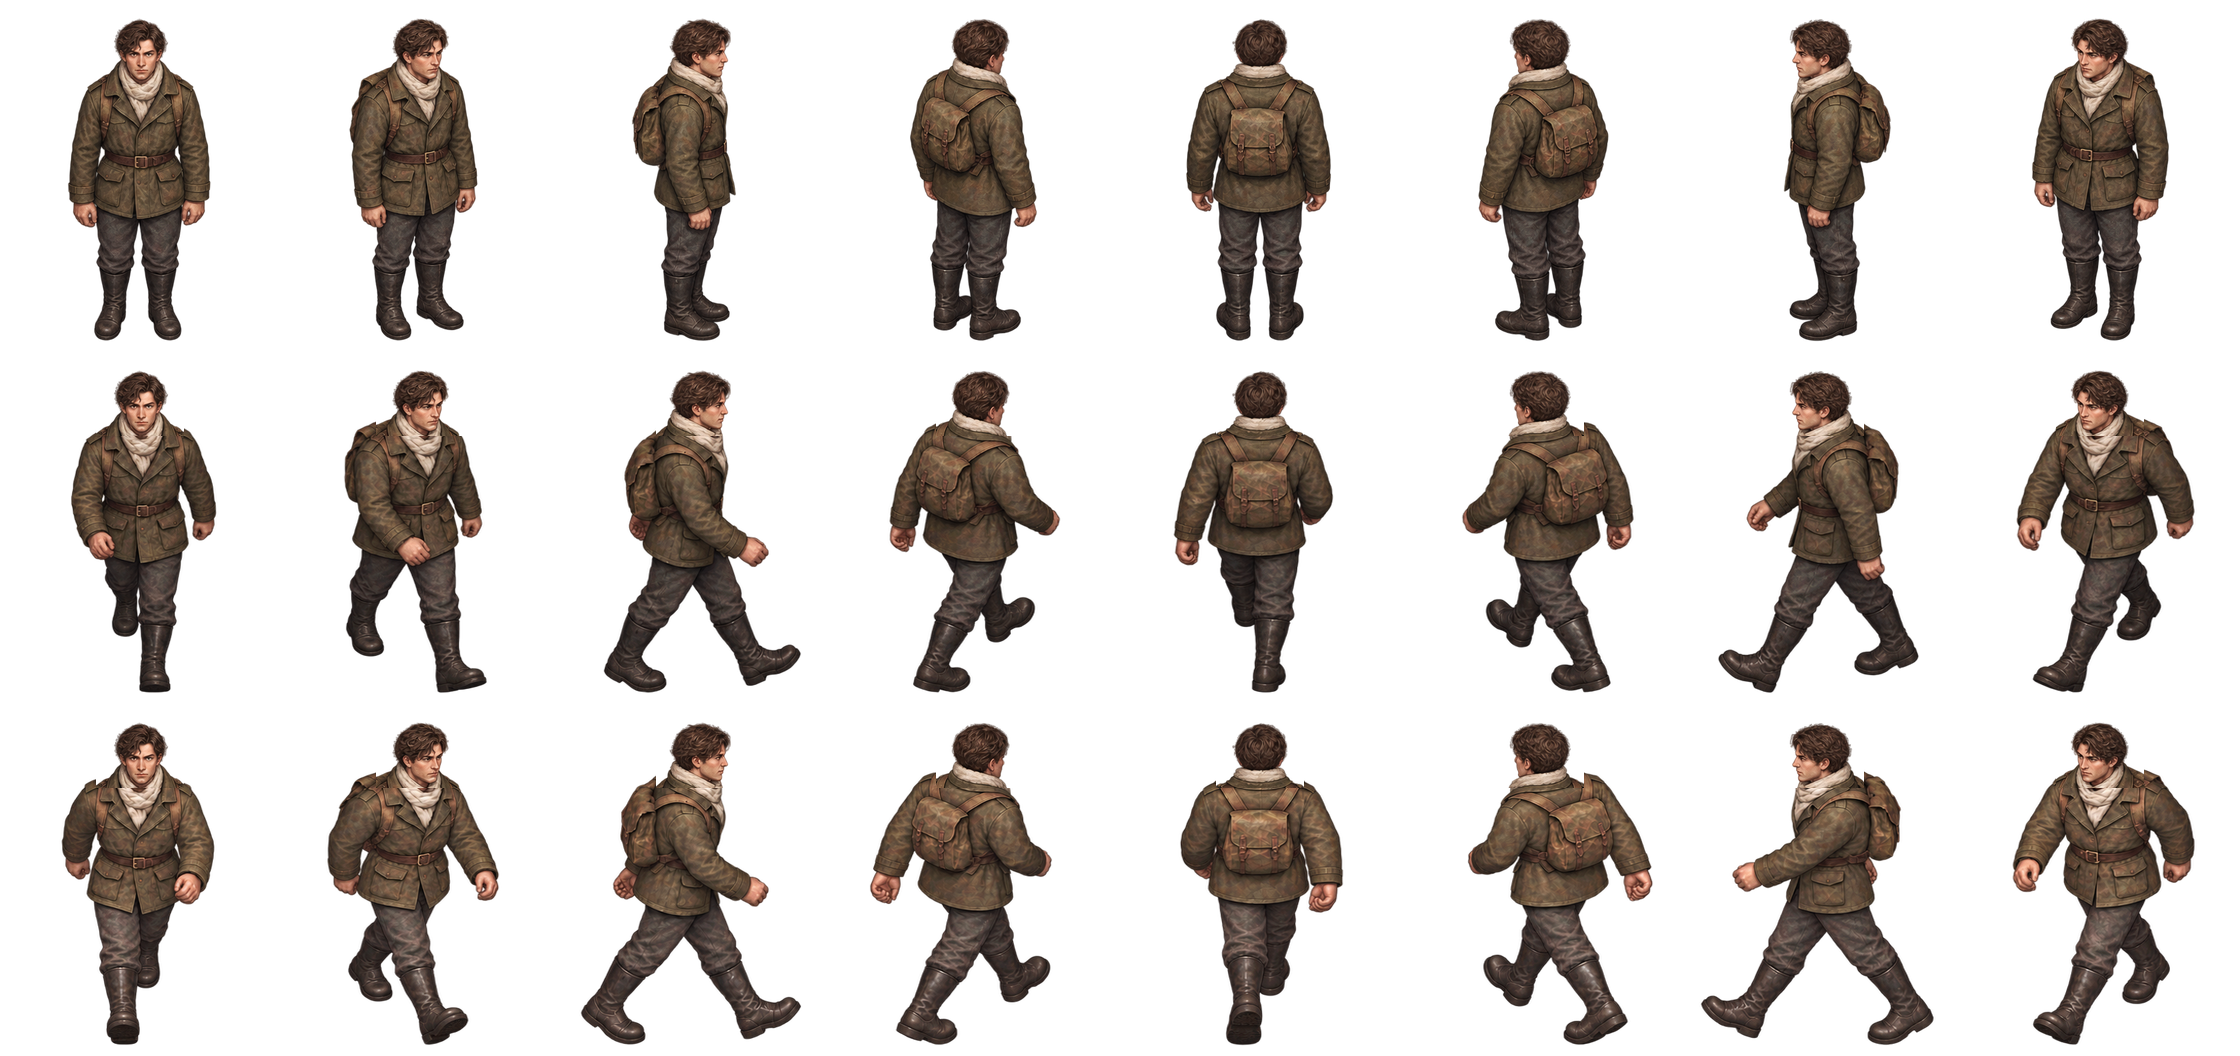
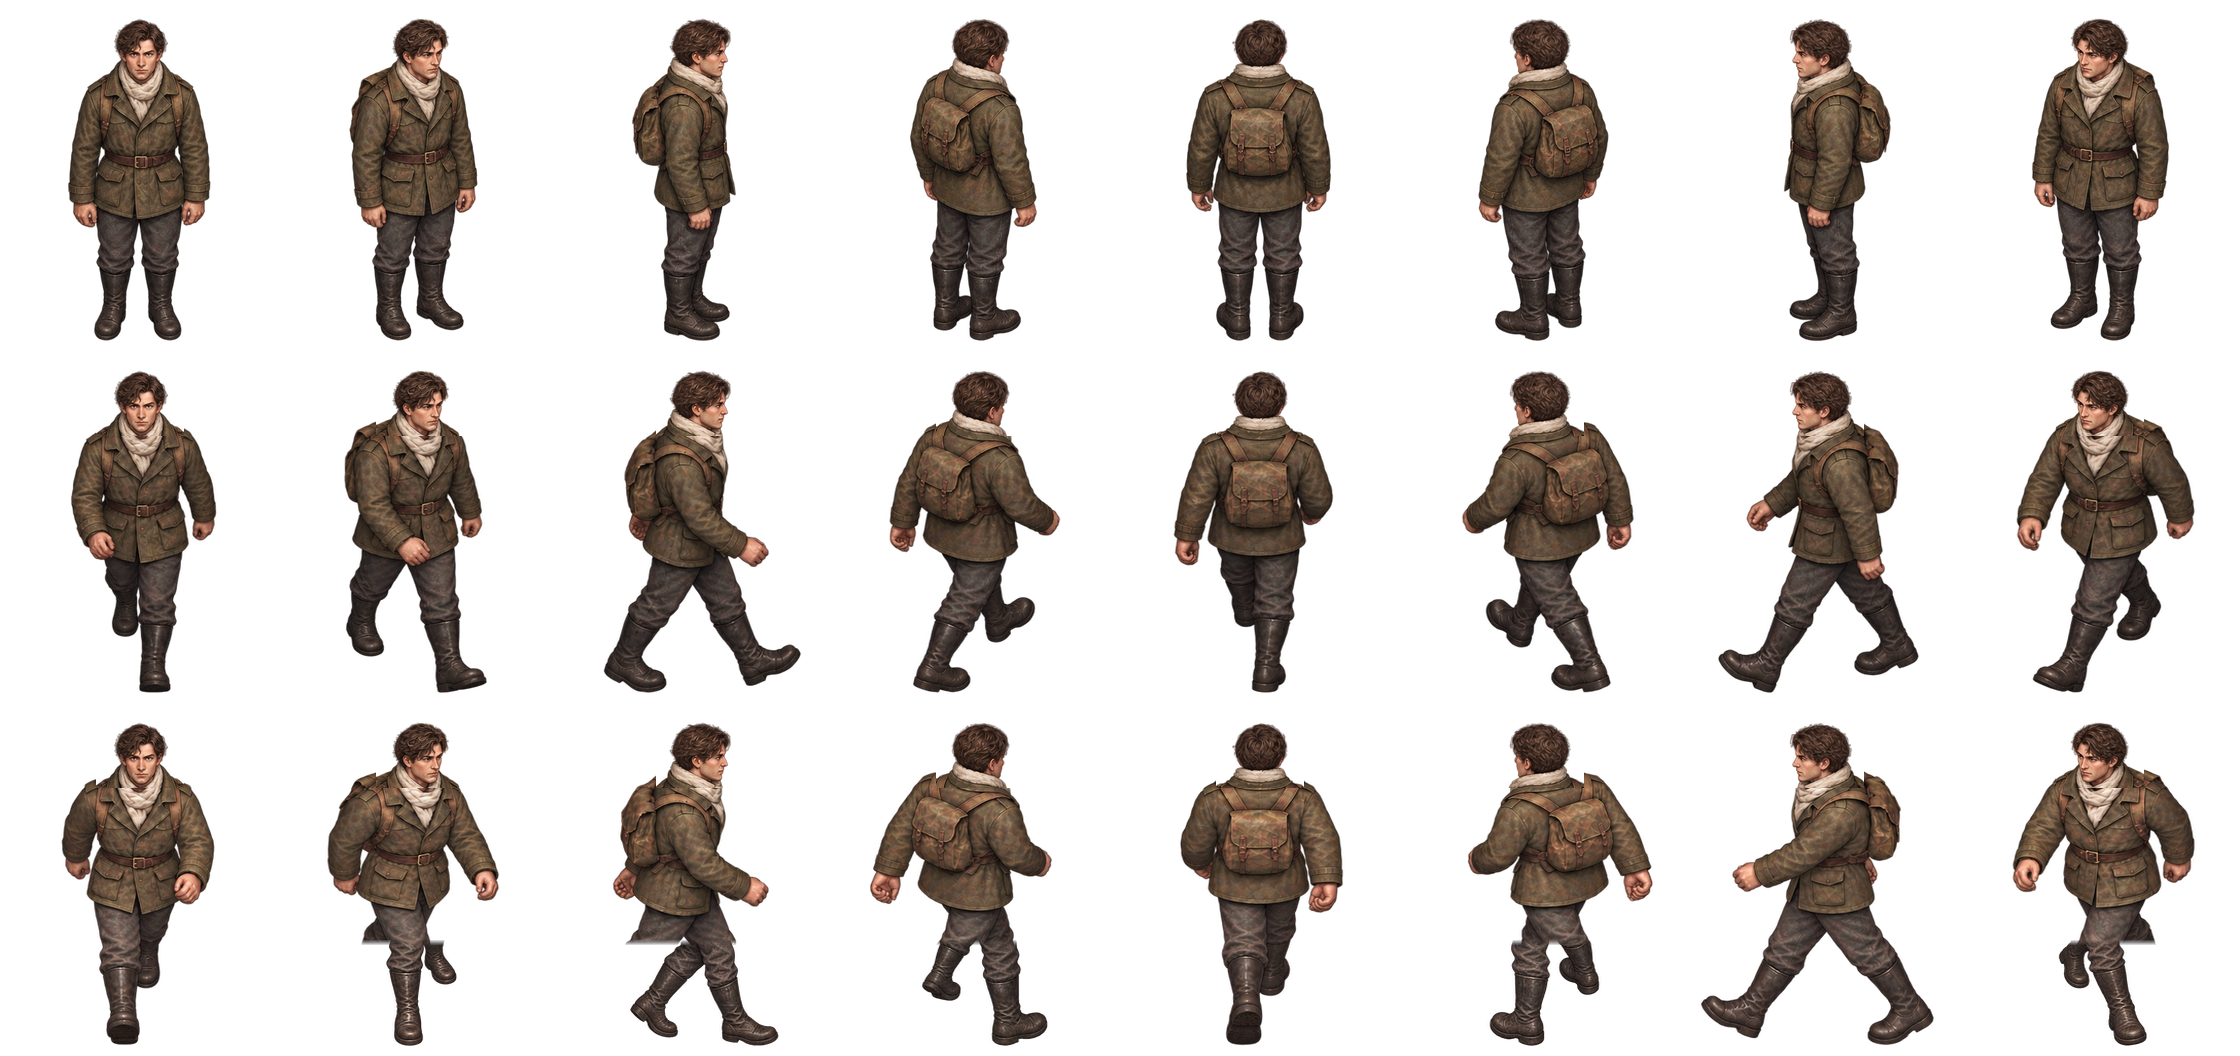
Correct opposite-foot strides in five Ivan directions across outfits

diff --git a/tools/pack_motion_v18.py b/tools/pack_motion_v18.py
@@ -66,6 +66,18 @@ def pack(sources,report_path):
    cell,ratio=registered(im,i%4,i//4,4,2,idle[i]);art[n].append(cell);report['registration'][n].append(round(ratio,4))
  left=[head_lock(art['walk_left'][i],idle[i]) for i in range(8)]
  right=[head_lock(art['walk_right'][i],idle[i]) for i in range(8)]
+ # Optional individually redrawn opposite strides; leave every other view intact.
+ corrections=sources/'opposite-strides.json'
+ if corrections.exists():
+  for key,name in json.loads(corrections.read_text()).items():
+   angle=int(key)
+   if angle not in [1,2,3,5,7]:raise ValueError('Only the five reviewed faulty views may be replaced')
+   src=sources/name
+   frame,ratio=registered(Image.open(src).convert('RGBA'),0,0,1,1,idle[angle])
+   right[angle]=upper_lower(right[angle],frame)
+   # Keep existing head, torso, hands and equipment pixel-identical. Only
+   # the newly painted legs below the shared outfit seam are replaced.
+   report.setdefault('opposite_stride_redraw',{})[key]={'file':name,'sha256':hashlib.sha256(src.read_bytes()).hexdigest(),'width_registration':round(ratio,4)}
  body=[idle,left,right]
  masked=[[masked_head(row[i],art['masked'][i]) for i in range(8)] for row in body]
  ready=[head_lock(art['armed'][i],idle[i]) for i in range(8)]
@@ -87,6 +99,7 @@ def pack(sources,report_path):
   atlas.save(ROOT/'assets/characters'/f'{actor}.png',optimize=True)
   clips=['idle','walk_left','walk_right'] if len(rows)==3 else ['ready','shot','reload','walk_left','walk_right','reload_walk_left','reload_walk_right']
   manifest[actor]={'file':actor+'.png','directions':8,'source_angles':8,'poses':len(rows),'cell':[width,H],'baseline':342,'body_pixels':324,'clips':clips,'packing_revision':18,'reference_commit':'057fff3','exposure':[[1.0]*8 for _ in rows],'frame_mirror':[[False]*8 for _ in rows]}
+  if corrections.exists():manifest[actor]['opposite_stride_angles']=[1,2,3,5,7]
   report[actor]={'head_identical_during_walk':all(np.array_equal(np.asarray(rows[p][i])[:80,102:178],np.asarray(rows[0][i])[:80,102:178]) for p in ([1,2] if len(rows)==3 else [3,4]) for i in range(8)),'waist_widths':[[round(core_width(c),1) for c in row] for row in rows]}
  path.write_text(json.dumps(manifest,ensure_ascii=False,indent=2)+'\n')
  for actor,row in [('ivan',idle),('ivan_masked',masked[0])]:

diff --git a/README.md b/README.md
@@ -1,6 +1,6 @@
 # 地铁1982 · D-6
 
-Godot 4.6.3 的等距 2.5D 叙事探索游戏。当前为 **v18.1：伊万八方向重绘、居民步态与收音机体验优化**。保留原有核心玩法与手绘风格，包含 D-6 两层、水处理厂、莫斯科公社、谢契、煤运设施与星城。
+Godot 4.6.3 的等距 2.5D 叙事探索游戏。当前为 **v18.2：修正伊万五个方向的重复迈腿姿态**。保留原有核心玩法与手绘风格，包含 D-6 两层、水处理厂、莫斯科公社、谢契、煤运设施与星城。
 
 七张地图的公共区域各有一台桌面收音机，七首完整歌曲分为“夜班来信”“旧日留声”“清晨微光”三个频道，频道与歌名均有中俄文。可选歌、换台、暂停、关闭与独立调音量；公共收音机随距离渐弱，普通 NPC 对话时继续播放，图文过场及战斗期间暂时停播。伊万卧室旁的剧情收音机也可打开音乐频道，音乐操作不会触发星城信号任务。
 
@@ -12,7 +12,7 @@ Godot 4.6.3 的等距 2.5D 叙事探索游戏。当前为 **v18.1：伊万八方
 
 星城增加仪器准备间、环境试验舱和科研记录；测控大厅与试验舱采用折角轮廓，按用途区分地胶、水磨石、防滑胶面、实验瓷砖与墙面。控制席面向主屏，机柜、录音设备、校准仪器和真空舱均有相应设施与通行空间。
 
-伊万以 v3 形象为参考重新绘制八个独立方向，每方向包含站立、左迈步与右迈步，按“迈步—站立—另一迈步—站立”播放。普通、面具、持枪和移动换弹共享同一套腿部动作；头部固定，身体只做有限的尺寸对齐，不再用镜像或额外腿部贴片生成步态。电台《渡口》已替换为新上传的正确录音；误标的《朋友的酒》已移除。
+伊万以 v3 形象为参考重新绘制八个独立方向，每方向包含站立、左迈步与右迈步，按“迈步—站立—另一迈步—站立”播放。v18.2 重画四个斜方向及向右行走的另一侧迈步腿部，修复两张图实际迈出同一侧腿的问题。普通、面具、持枪和移动换弹共享同一套腿部动作；头部固定，身体只做有限的尺寸对齐，不再用镜像或额外腿部贴片生成步态。电台《渡口》已替换为新上传的正确录音；误标的《朋友的酒》已移除。
 
 ## 运行
 
@@ -60,6 +60,6 @@ Godot 4.6.3 的等距 2.5D 叙事探索游戏。当前为 **v18.1：伊万八方
 ./tools/run.sh --test
 ```
 
-v18 执行完整入口的 **30 组测试，全部通过**；v18.1 步态小修另执行动作、居民与人物三组针对性回归。测试覆盖地图通行、交互视线、NPC／家具碰撞、物品与存档、音乐播放与跨地图续播、八方向动作、任务 UI 和收集品。
+v18 执行完整入口的 **30 组测试，全部通过**；v18.1 步态小修另执行动作、居民与人物三组针对性回归；v18.2 执行动作与八方向两组针对性回归，并逐像素核对未改动的帧及上半身。测试覆盖地图通行、交互视线、NPC／家具碰撞、物品与存档、音乐播放与跨地图续播、八方向动作、任务 UI 和收集品。
 
 水厂是现有战斗关卡；主线支持阵营加入后继续探索。公社大型攻防战与谢契外出狩猎仍是后续独立战斗地图的内容。

diff --git a/docs/ASSETS.md b/docs/ASSETS.md
@@ -239,7 +239,7 @@
 
 ## v18 当前人物素材
 
-- 伊万四套图集均为八个独立方向。普通／面具为每方向三姿态；持枪／面具持枪为每方向七姿态，包含移动换弹。全部共用同一套腿部动作和固定头部。打包工具为 `tools/pack_motion_v18.py`；生成原图留在独立资料库的 `updates/v18/art-source`。
+- 伊万四套图集均为八个独立方向。普通／面具为每方向三姿态；持枪／面具持枪为每方向七姿态，包含移动换弹。全部共用同一套腿部动作和固定头部。v18.2 为五个问题方向补绘另一侧迈步腿部，使用 `opposite-strides.json` 指定独立修正原图，保留原有上半身。打包工具为 `tools/pack_motion_v18.py`；原始图集留在独立资料库的 `updates/v18/art-source`，五个迈步修正源位于 `updates/v18.2/art-source`。
 - [科研地胶](../assets/visual/star_linoleum.png)
 - [公共水磨石](../assets/visual/star_terrazzo.png)
 - [实验瓷砖](../assets/visual/star_lab_tile.png)
